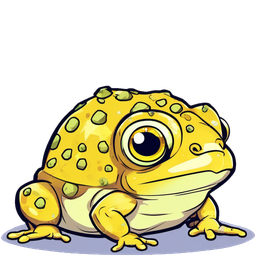
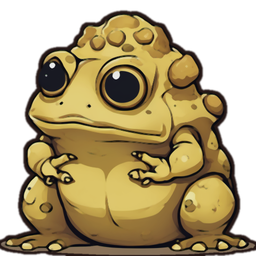
Créatures redessinées dans le style des persos Craftpix (grosse tête, couleurs sourdes, contour sombre)

diff --git a/Tools/make_creatures.py b/Tools/make_creatures.py
@@ -9,7 +9,7 @@ from PIL import Image, ImageFilter
 COMFY = "http://127.0.0.1:8188"
 COMFY_OUT = r"C:\Users\pierr\Downloads\ComfyUI_windows_portable_nvidia\ComfyUI_windows_portable\ComfyUI\output"
 OUT = os.path.join(os.path.dirname(__file__), "..", "Assets", "Resources", "ForgeUI", "Creatures")
-RAW = os.path.join(os.path.dirname(__file__), "..", "..", "_dl", "creatures_raw")
+RAW = os.path.join(os.path.dirname(__file__), "..", "..", "_dl", "creatures_raw2")
 
 # modèle (nom du fichier, comme ProgressionData) -> description (thème des Enfers)
 CREATURES = {
@@ -45,10 +45,27 @@ CREATURES = {
     "Zebra": "infernal zebra, black and red stripes, fiery mane",
 }
 
-STYLE = ("cute chibi {d}, full body, side view facing right, mobile game character, thick black outline, "
-         "flat cel shading, vibrant colors, clean 2d vector cartoon art, centered, isolated on plain white background")
-NEG = ("realistic, photo, 3d render, blurry, text, watermark, signature, multiple characters, cropped, cut off, "
-       "background scenery, ground, ground shadow, drop shadow, extra objects, frame, border, grayscale")
+# Style calé sur les persos Craftpix du jeu : grosse tête ronde, petit corps trapu, couleurs sourdes et mates, contour sombre épais.
+STYLE = ("tiny super deformed chibi {d}, oversized round head, very small stubby body, short legs, side view facing right, "
+         "2d mobile game sprite like craftpix chibi monsters, thick dark outline, matte soft shading, muted earthy colors, "
+         "simple shapes, low detail, centered, isolated on plain white background")
+NEG = ("realistic, photo, 3d render, anime, manga, highly detailed, intricate, shiny, glossy, sparkles, thin lines, "
+       "realistic proportions, long legs, oversaturated, neon, blurry, text, watermark, signature, multiple characters, "
+       "cropped, cut off, background scenery, ground, ground shadow, drop shadow, extra objects, frame, border, grayscale")
+
+def craftpix_look(im):
+    """Rapproche le rendu des persos Craftpix : moins de détails, couleurs moins vives, contour sombre épais et doux."""
+    from PIL import ImageEnhance
+    a = im.getchannel("A")
+    rgb = im.convert("RGB").filter(ImageFilter.MedianFilter(5))
+    rgb = ImageEnhance.Color(rgb).enhance(0.78)
+    rgb = ImageEnhance.Brightness(rgb).enhance(0.93)
+    body = rgb.convert("RGBA"); body.putalpha(a)
+    ring = a.point(lambda v: 255 if v > 40 else 0).filter(ImageFilter.MaxFilter(9)).filter(ImageFilter.GaussianBlur(1.2))
+    out = Image.new("RGBA", im.size, (38, 24, 22, 0))
+    edge = Image.new("RGBA", im.size, (38, 24, 22, 255)); edge.putalpha(ring)
+    out.alpha_composite(edge); out.alpha_composite(body)
+    return out
 
 def workflow(prompt, seed, prefix):
     return {
@@ -129,9 +146,9 @@ def remove_shadow(im):
     return out
 
 # Variante gardée pour chaque créature (planche de contrôle : _dl/creatures_raw).
-PICK = {"Rat": 0, "Frog": 1, "Slime": 0, "bird": 1, "Cat": 0, "Chick": 2, "Snake": 1, "Dog": 0, "Spider": 1, "Wasp": 2, "Bat": 2,
-        "Triceratops": 1, "Velociraptor": 0, "RedFox": 2, "Eagle": 2, "Skeleton": 1, "Wolf": 1, "Robot": 1, "Trex": 1, "Dragon": 1,
-        "Stegosaurus": 1, "Alien": 1, "Apatosaurus": 1, "Mantaray": 1, "Whale": 1, "Pig": 2, "Sheep": 1, "Llama": 1, "Horse": 1, "Zebra": 2}
+PICK = {"Rat": 0, "Frog": 0, "Slime": 0, "bird": 0, "Cat": 1, "Chick": 1, "Snake": 1, "Dog": 0, "Spider": 0, "Wasp": 0, "Bat": 1,
+        "Triceratops": 1, "Velociraptor": 1, "RedFox": 2, "Eagle": 2, "Skeleton": 1, "Wolf": 1, "Robot": 1, "Trex": 2, "Dragon": 1,
+        "Stegosaurus": 0, "Alien": 0, "Apatosaurus": 0, "Mantaray": 2, "Whale": 1, "Pig": 2, "Sheep": 1, "Llama": 1, "Horse": 0, "Zebra": 2}
 
 if __name__ == "__main__":
     args = sys.argv[1:]
@@ -145,8 +162,8 @@ if __name__ == "__main__":
         for v in range(seeds):
             raw = os.path.join(RAW, "%s_%d.png" % (n, v))
             if not os.path.exists(raw):
-                src = generate(n, 1000 + v * 7919 + sum(map(ord, n)))
-                cutout(src).save(raw)
+                src = generate(n, 2000 + v * 7919 + sum(map(ord, n)))
+                craftpix_look(cutout(src, 480)).save(raw)
                 print("ok", n, v, flush=True)
         keep = pick.get(n, 0)
         remove_shadow(Image.open(os.path.join(RAW, "%s_%d.png" % (n, keep))).convert("RGBA")).resize((256, 256), Image.LANCZOS).save(os.path.join(OUT, n + ".png"))

diff --git a/CLAUDE.md b/CLAUDE.md
@@ -88,4 +88,4 @@ Décor du chemin en KayKit Dungeon Remastered, icônes 2D peintes (packs payants
 - « Pas japonais » (SteppingStones.cs, ForgeUI.Stones.cs) = événement Stepping Stones de FM, refait à l'identique d'après le wiki FM (forge-master.fandom.com/wiki/Stepping_Stones) à la demande de Pierre (2026-10-17) : UNE SEMAINE SUR DEUX (semaine paire depuis le lundi 2026-01-05, changement à 22:00), chaque édition met à l'honneur un pack (ses 2 skins). 8 rangées de 2 pierres : une partie = 1 jeton, à chaque rangée on touche la pierre de gauche ou de droite, l'une casse (50/50) ; chaque pierre franchie donne aussitôt marteaux (2/4/8/15/25/40/60/100) et or (référence 200…10 000, 1 000 = 1 h hors ligne) ; pierre 6 = 1 % du petit skin, bout du chemin (1/256) = grand skin puis petit, puis 100 gemmes ; chute = retour sur la rive (gains gardés). Jetons : 8 offerts CHAQUE JOUR de l'édition dans la boutique (ssFreeEdition garde le jour), packs 10 = 150 et 30 = 400 gemmes ; Auto dès 20 jetons = 20 parties d'un coup. Débloqué étape 6-8. Sauvegarde : ssTokens, ssPos, ssPending (côtés franchis en bits), ssSeason, ssFreeEdition (ssEclats inutilisé). Tests : « ss:tokens » (+40, retour rive), « ss:0 »/« ss:1 », « ss:auto ». Dessins : Tools/make_stepping_stones.py -> Resources/ForgeUI/Event.
 - Interface épurée (2026-10-18) : barre du haut = puissance seule, tuiles de l'accueil = icône + niveau, fiche Héros = attaque/vie + bouton Statistiques (ShowAllStats), combat sans chiffres d'or/soin/nom de compétence, Reset (test) seulement dans l'éditeur. Règle de Pierre : épurer comme FM.
 - Interface « pro » (2026-10-18, Pierre jugeait l'UI amateur) : icônes de ressources dans make_ui_skin.py (i_shell, i_winder, i_ticket, i_potion, i_token, i_sword, i_heart, i_clock, i_key_hammer/egg/potion/skill) + sprite « slot » (case enfoncée). ForgeUI.Common : CurrencyIcon (ordre des monnaies de ShopData), FillRewards(box, contenu, colonnes) = cases icône + quantité, RewardCell, PriceIcon (icône de prix dans un bouton). Boutique refaite (cadeau, offres à cases avec bandeau titre, ressources à grande icône, jetons), donjons (emblème sur halo, récompenses en cases, clés en pastille), pass (cases), barres d'invocation (icône de la monnaie), techno (icône par type : pièce concernée ou ressource, barre de niveau). Fiche Héros = ForgeUI.HeroView.cs : héros animé rendu en direct (studio caché à (40,-520,0), caméra ortho -> RenderTexture, seulement panneau ouvert), 8 pièces autour, puissance, 13 stats en cartes. Fenêtre « nouvelle pièce » : équipé -> nouveau côte à côte (PopTile). Fond de forge large (3000x1000) sur toute la rangée (SetBand pleine largeur). Commande de test « uiat:x,y » -> _dl/uiat.txt (éléments sous un point).
-- Compagnons et montures DESSINÉS (2026-10-18, Pierre trouvait les modèles 3D moches) : Tools/make_creatures.py génère 30 créatures chibi (contour noir, aplats, vue de profil vers la droite) avec ComfyUI + SDXL base du PC (C:\Users\pierr\Downloads\ComfyUI_windows_portable_nvidia, lancer python_embeded\python.exe ComfyUI\main.py --port 8188), 3 variantes par créature dans _dl/creatures_raw, choix dans PICK, détourage + retrait de l'ombre -> Assets/Resources/ForgeUI/Creatures/<modèle>.png (256 px, DANS le dépôt). ItemIcons.Drawn(modèle) : prioritaire dans GetCreature (tuiles) et CreatureSprite (combat, texture lisible via ForgeUIPostprocessor). Sans image : retour au modèle 3D.
+- Compagnons et montures DESSINÉS (2026-10-18, Pierre trouvait les modèles 3D moches) : Tools/make_creatures.py génère 30 créatures dans le style des persos Craftpix (grosse tête ronde, petit corps trapu, couleurs sourdes et mates, contour sombre épais ajouté par craftpix_look ; le 1er essai « anime » jurait avec le reste) avec ComfyUI + SDXL base du PC (C:\Users\pierr\Downloads\ComfyUI_windows_portable_nvidia, lancer python_embeded\python.exe ComfyUI\main.py --port 8188), 3 variantes par créature dans _dl/creatures_raw2, choix dans PICK, détourage + retrait de l'ombre -> Assets/Resources/ForgeUI/Creatures/<modèle>.png (256 px, DANS le dépôt). ItemIcons.Drawn(modèle) : prioritaire dans GetCreature (tuiles) et CreatureSprite (combat, texture lisible via ForgeUIPostprocessor). Sans image : retour au modèle 3D.
